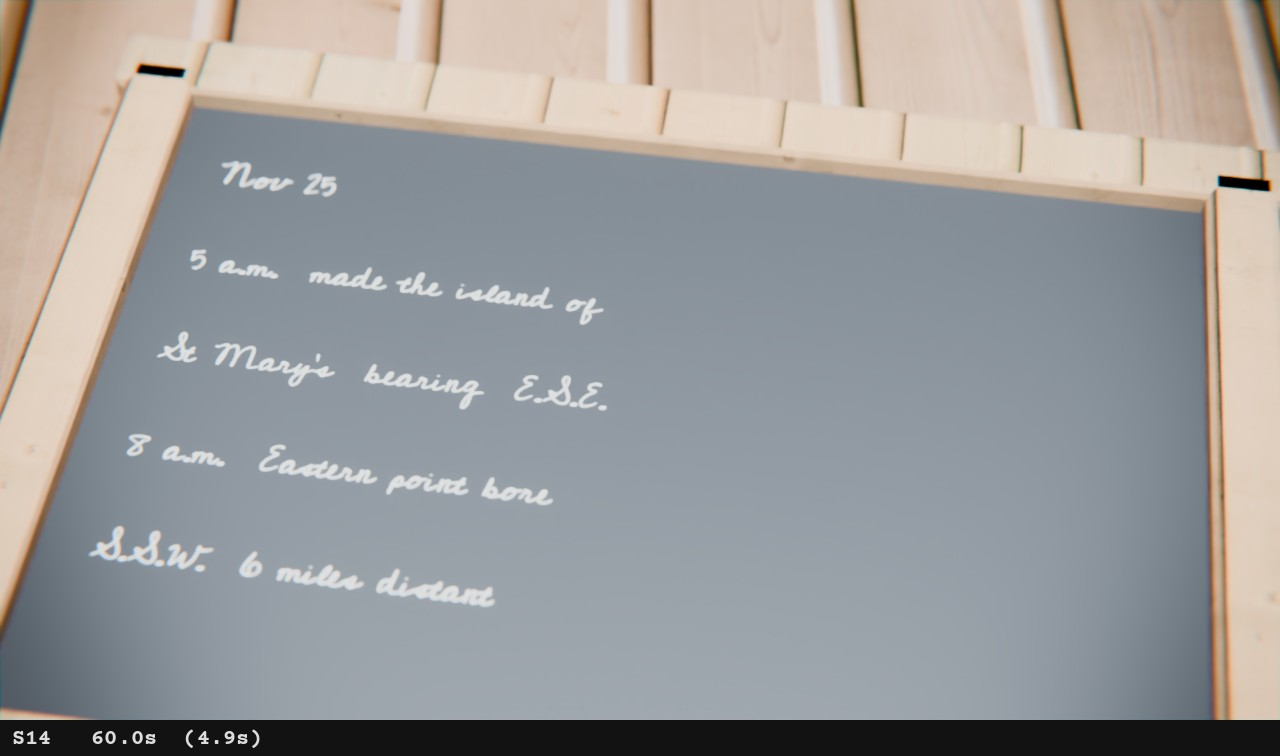
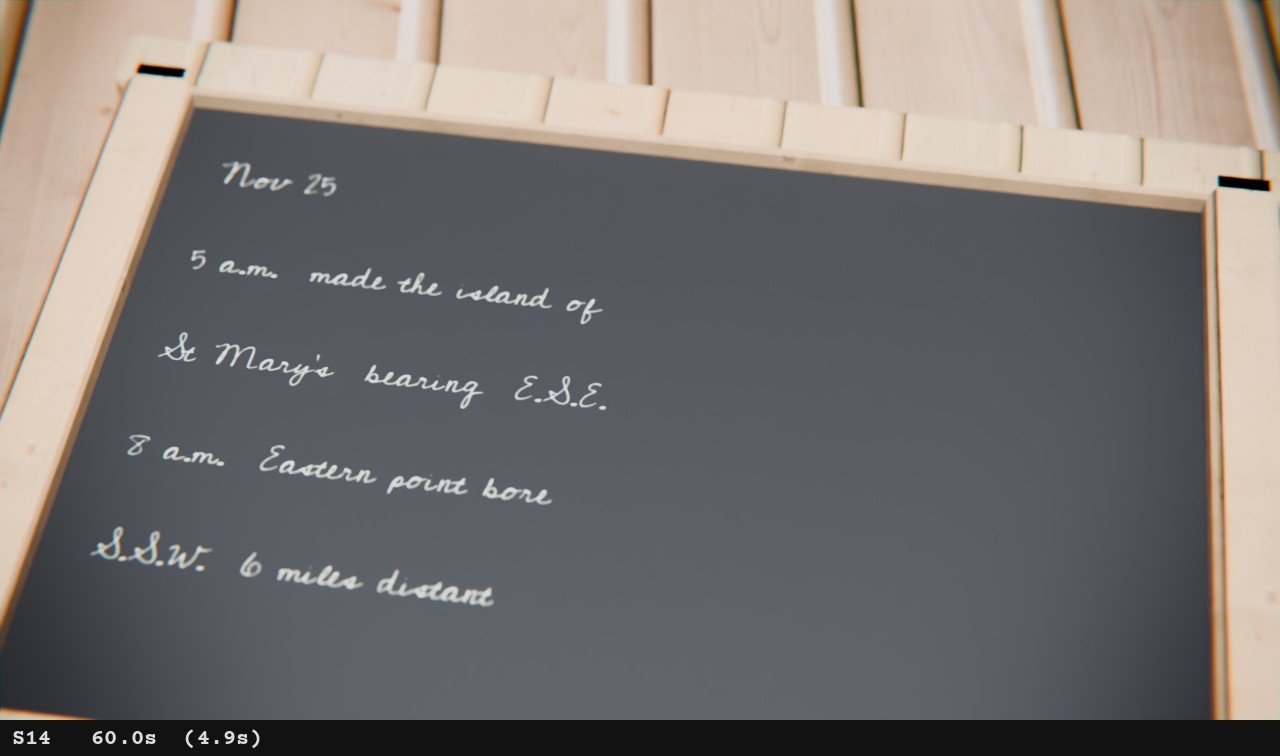
P5 S13/S14: dark slate face (chalk stays bright)
Claude-Session: https://claude.ai/code/session_01XfwPSoW36vjnLw2tyeQQji

diff --git a/mary_celeste_p5/scenes/sc5_cabin.py b/mary_celeste_p5/scenes/sc5_cabin.py
@@ -99,6 +99,13 @@ if SHOT != "S12":
         lp.location = T + Vector((-0.05, 0.28, 0.2)); lp.data.energy = 40; lp.data.color = (1.0, 0.6, 0.28); lp.data.shadow_soft_size = 0.02
     else:
         p1_interiors().slate(T + Vector((0.12, -0.08, 0.0)), rot=math.radians(-8))     # P1/P2's dark slate, chalk hand
+        # under our grey skylight P1's slate face read pale: deepen the slate (gamma), the chalk stays bright
+        sm = bpy.data.materials.get("slateface")
+        if sm:
+            N = sm.node_tree.nodes; Lk = sm.node_tree.links; tex = next(n for n in N if n.type == 'TEX_IMAGE')
+            g = N.new("ShaderNodeGamma"); g.inputs['Gamma'].default_value = 2.2
+            Lk.new(tex.outputs['Color'], g.inputs['Color']); Lk.new(g.outputs['Color'], N["Principled BSDF"].inputs['Base Color'])
+            N["Principled BSDF"].inputs['Roughness'].default_value = 0.85
         PR.water_floor("bilge", (0, 0, 0.0), (2 * RX - 0.1, 2 * RY - 0.1), depth=0.035)
         chair, _ = PR.put("WoodenChair_01", (-1.0, -0.7, 0), rot_z=math.radians(60), size=0.9)
         chair.rotation_euler = (math.radians(0), math.radians(90), math.radians(70))      # knocked over
